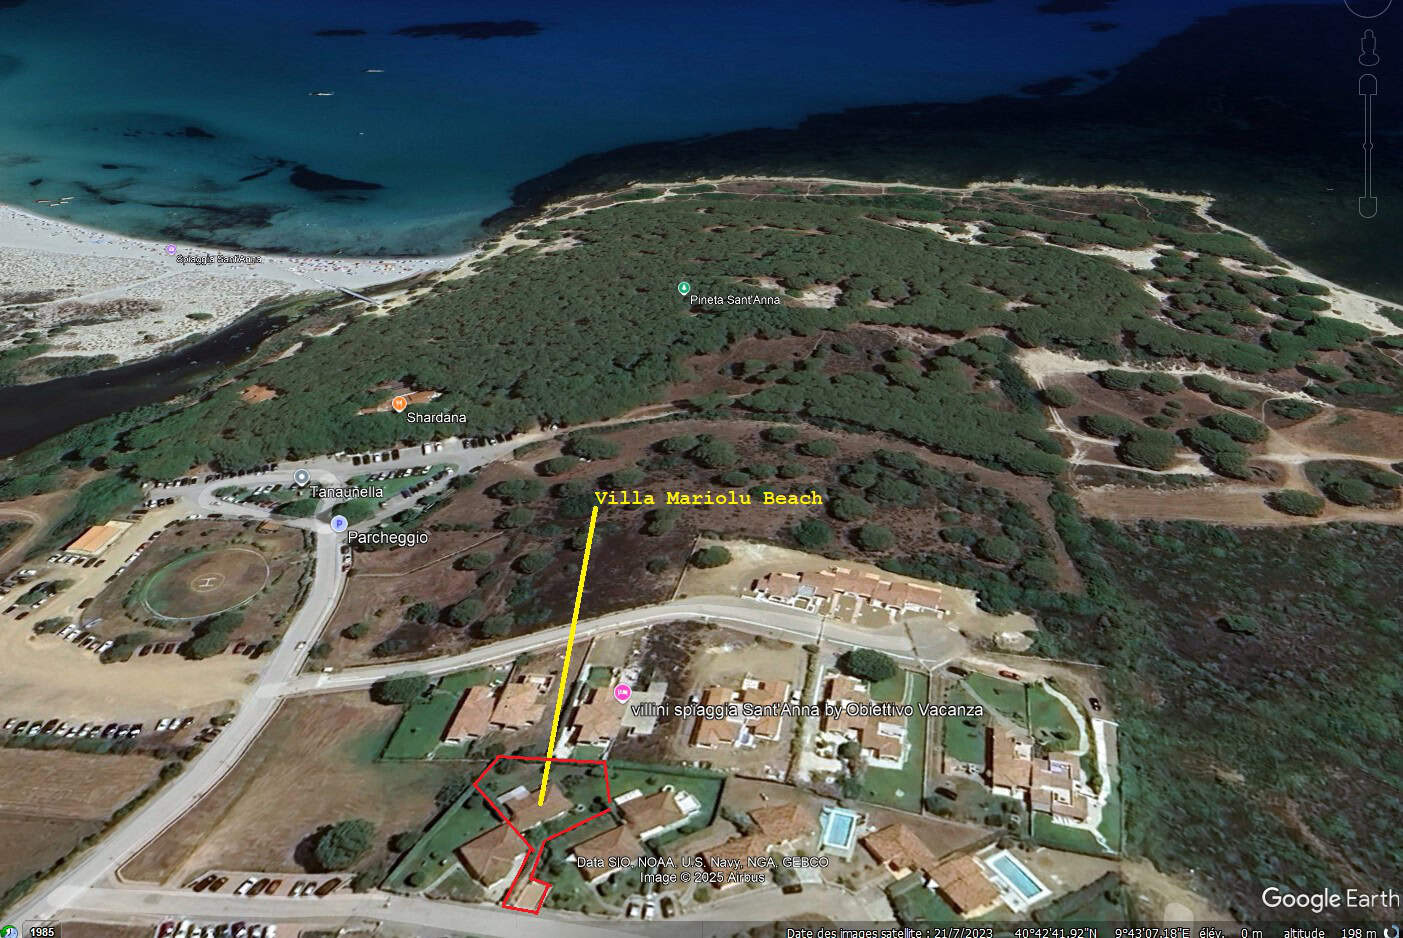
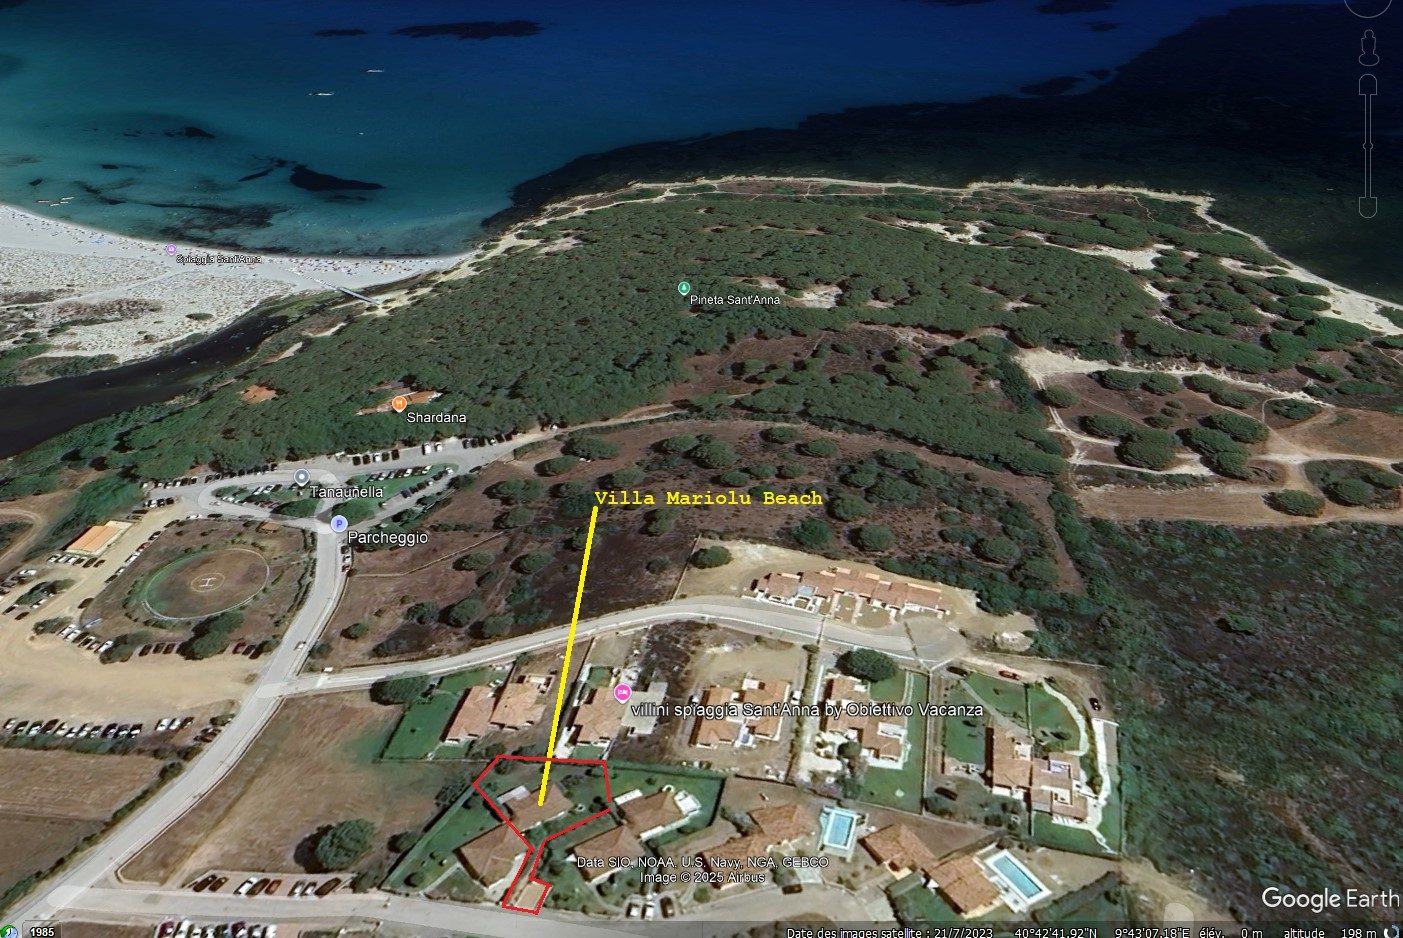
Compléter la galerie avec les photos client manquantes, compressées pour le web.

diff --git a/views/home.php b/views/home.php
@@ -34,12 +34,14 @@ $placeCards = [
 ];
 $galleryPreview = 6;
 $gallery = [
-    'gallery/bedroom.jpg', 'gallery/bathroom.jpg', 'gallery/hallway.jpg',
+    'gallery/bedroom.jpg', 'gallery/twins.jpg', 'gallery/bathroom.jpg', 'gallery/hallway.jpg',
     'hero/sea-view.jpg', 'gallery/ext-olive.jpg', 'gallery/g2.jpg',
-    'gallery/bedroom-lamp.jpg', 'gallery/g7.jpg', 'gallery/g10.jpg', 'gallery/g3.jpg',
-    'gallery/g8.jpg', 'gallery/g11.jpg', 'gallery/g28.jpg', 'gallery/g31.jpg',
-    'gallery/g35.jpg', 'gallery/ext-garden.jpg', 'gallery/g1.jpg', 'gallery/g39.jpg',
-    'location/beach.jpg', 'gallery/g15.jpg', 'gallery/g5.jpg', 'gallery/ext-6.jpg',
+    'gallery/bedroom-lamp.jpg', 'gallery/kitchen-wide.jpg', 'gallery/dining.jpg',
+    'gallery/g10.jpg', 'gallery/g3.jpg', 'gallery/g8.jpg', 'gallery/outdoor-shower.jpg',
+    'gallery/g11.jpg', 'gallery/g28.jpg', 'gallery/terrace-dining.jpg', 'gallery/terrace-lounge.jpg',
+    'gallery/villa-exterior.jpg', 'gallery/g31.jpg', 'gallery/g35.jpg', 'gallery/ext-garden.jpg',
+    'gallery/g1.jpg', 'gallery/g39.jpg', 'location/beach.jpg', 'gallery/g15.jpg',
+    'gallery/g5.jpg', 'gallery/ext-6.jpg',
 ];
 $restaurants = [
     ['La Shardana', '150 m'],
